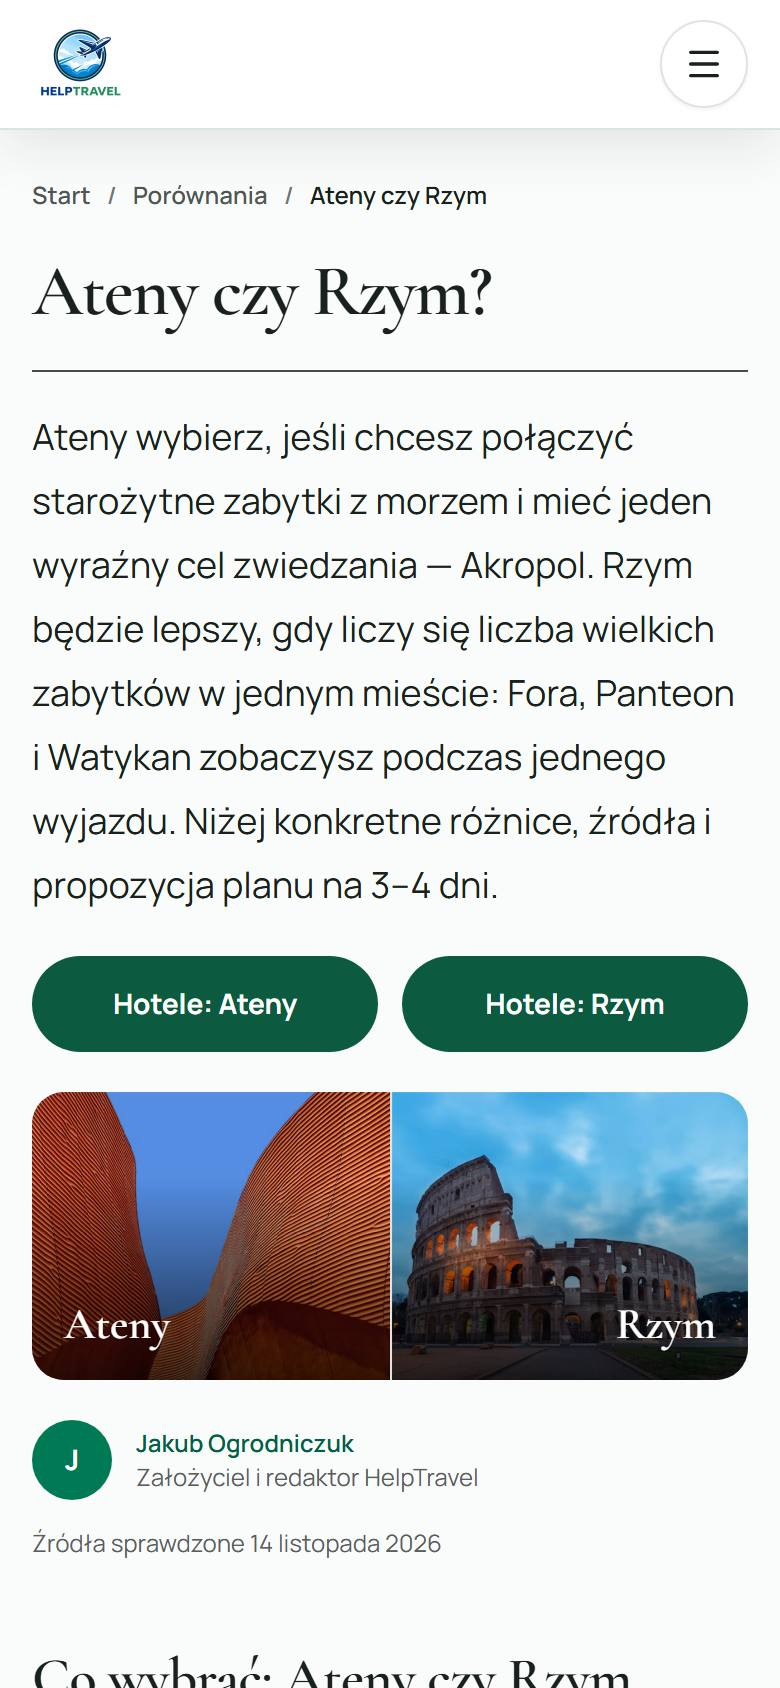
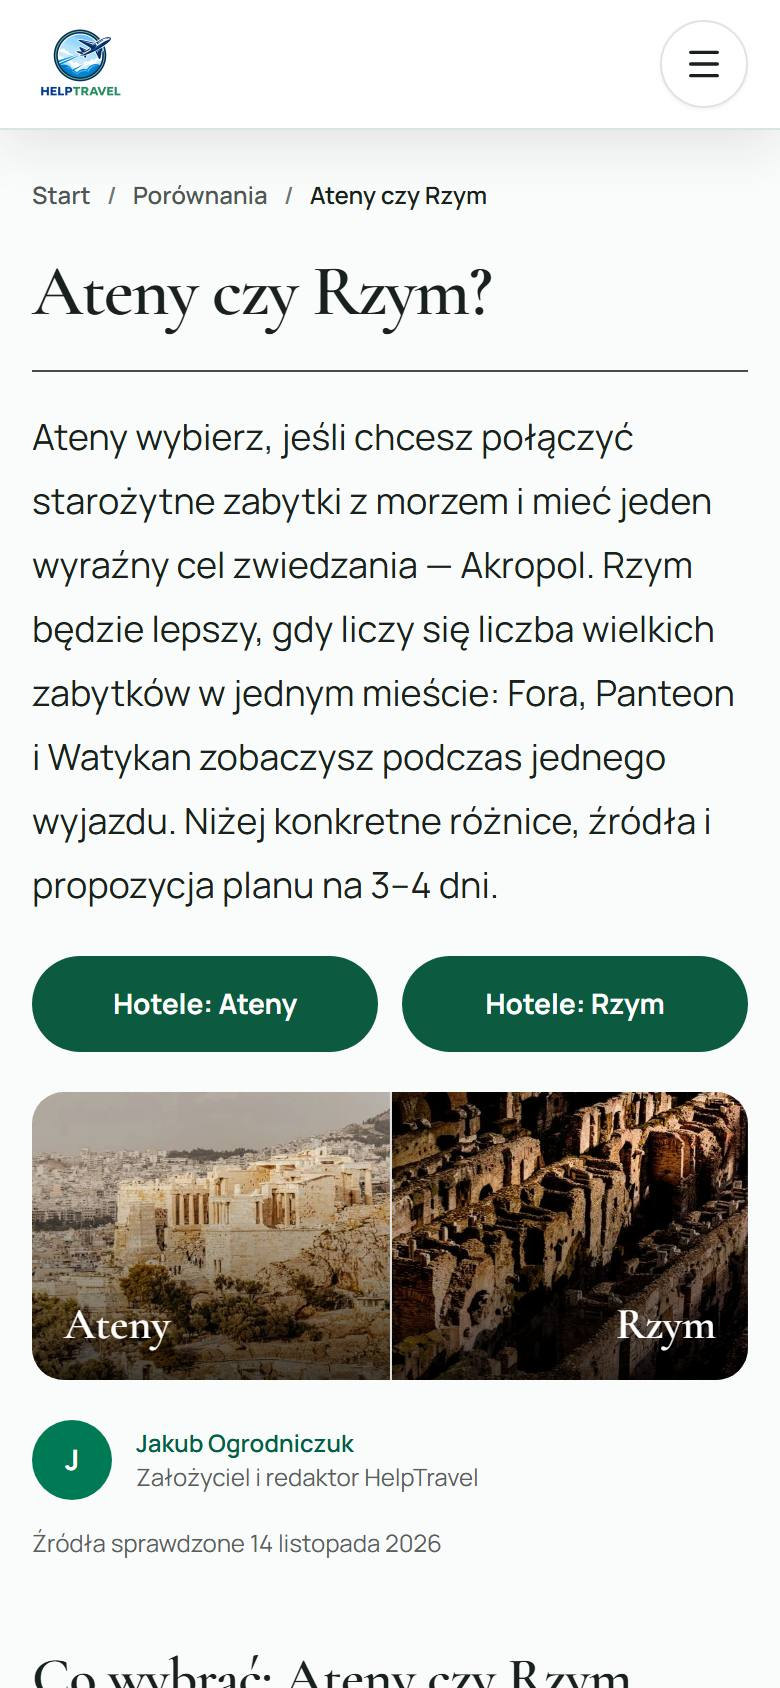
docs(seo): wyniki etapu 7, kontrola Preview i zrzuty „po” z prawdziwymi zdjęciami
- PHASE_7_RESULTS: testy, kontrola Preview (263/263), znalezisko z prefetchem
- zrzut porównania „po” podmieniony na wersję z Preview (zdjęcia Pexels)
- ryzyko R-07 zamknięte; pułapki Preview dopisane do HANDOFF

Changed region(s): [[0.0308, 0.6469, 0.9846, 0.8318]]

diff --git a/docs/seo/PHASE_7_RESULTS.md b/docs/seo/PHASE_7_RESULTS.md
@@ -1,0 +1,88 @@
+# Etap 7 — testy i przegląd kodu: wyniki
+
+## Testy
+
+| Rodzaj | Polecenie | Wynik |
+|---|---|---|
+| Jednostkowe i integracyjne całego projektu | `pnpm test` | 1672 zaliczone |
+| SEO, bramka treści, silnik, klient GSC | `pnpm test:seo` | 155 zaliczonych |
+| Kontrola dokumentów treści | `pnpm content:check` | 4/4, wszystkie `approved` |
+| Typy i linter | `pnpm exec tsc --noEmit`, `pnpm lint` | czyste |
+| Test dymny po buildzie lokalnym | `pnpm seo:smoke` | 263/263 |
+| Test dymny na Preview (Vercel) | `pnpm seo:smoke -- --base <preview> --share <token>` | 263/263 |
+| Playwright z axe | `pnpm exec playwright test e2e/seo-templates.spec.ts` | 13/13 |
+| Lighthouse (telefon, mediana z 3) | `pnpm lighthouse -- --routes=…` | dostępność 100, CLS 0, LCP bez regresji |
+| Crawl buildu | `pnpm seo:crawl` | 0 błędów JSON-LD, 0 złych linków, 0 zmian robots |
+| Kontrola treści w CI | workflow „SEO content check” na PR | zaliczona |
+
+Test dymny i Playwright zostały powtórzone na końcowym buildzie, już po zmianie linków CTA opisanej niżej. Lighthouse i crawl pochodzą z buildu commita `b4d9a22`. Późniejsze zmiany dotyczą skryptów, klienta GSC, workflow, dokumentów i jednego atrybutu linku, więc nie zmieniają treści stron.
+
+## Kontrola Preview
+
+Preview na Vercelu używa prawdziwych kluczy dostawców, więc pokazuje to, czego nie widać lokalnie.
+
+| Sprawdzenie | Wynik |
+|---|---|
+| Build | Pierwszy build padł po 20 s na pobieraniu fontów Google (`next/font`), poza kodem tej gałęzi. Ponowny build przeszedł. |
+| Test dymny | 263/263 |
+| Trzy szablony w 390, 768 i 1440 px | status 200, brak przepełnienia, 0 błędów konsoli, 0 żądań do API produktu przy wczytaniu |
+| Pozycja pierwszego CTA na telefonie | 478, 388 i 645 px, tak samo jak lokalnie |
+| Zdjęcia | prawdziwe zdjęcia miejsc z Pexels (Akropol, Rzym) |
+| Blok statystyk hoteli | obecny na porównaniu Ateny–Rzym, zgodnie z założeniem nieobecny na parach spoza czołówki |
+
+Zrzuty „po” w `docs/seo/screenshots/` pochodzą z tej kontroli.
+
+### Znalezisko: prefetch wyszukiwarki przy każdej odsłonie
+
+Kontrola sieci na Preview pokazała żądania RSC do `/hotele/szukaj?destination=…` wysyłane bez kliknięcia. Przyczyna: `next/link` pobiera wstępnie cel, gdy link wejdzie w pole widzenia, a nowe szablony przeniosły CTA do pierwszego ekranu. Na porównaniu dawało to 5 żądań na odsłonę, także od botów renderujących JavaScript.
+
+Pomiar na buildzie produkcyjnym:
+
+- Żądania **nie uruchamiały wyszukiwania u dostawcy**. Odpowiedź zawierała tylko drzewo trasy i metadane (około 4 kB), bez danych hoteli. Strona wyszukiwarki jest dynamiczna i jej komponent z zapytaniem do dostawcy nie był renderowany.
+- Były jednak zbędnym ruchem na trasie produktu i niczego nie przyspieszały.
+
+Poprawka: `SeoCtaLink` wyłącza prefetch dla tras transakcyjnych (`/hotele/szukaj`, `/hotele/rezerwacja`, `/loty`), a jawne ustawienie nadal wygrywa. Logika i testy: `src/lib/analytics/cta-prefetch.ts`.
+
+| Strona | Żądania do `/hotele/szukaj` bez kliknięcia: przed → po |
+|---|---|
+| Porównanie Ateny–Rzym | 5 → 0 |
+| Barcelona w styczniu | 3 → 0 |
+| Przewodnik Barcelona | 0 → 0 |
+| Hub city break | 2 → 2 |
+
+Dwa żądania na hubie pochodzą z ogólnego linku do wyszukiwarki bez kierunku, który istniał wcześniej i nie przechodzi przez `SeoCtaLink`. Karty kierunków poniżej pierwszego ekranu też używają zwykłych linków. To wspólne komponenty serwisu, więc zostały bez zmian.
+
+Kliknięcie CTA nadal prowadzi do wyszukiwarki z kierunkiem (Playwright 13/13).
+
+Przy okazji naprawiono `seo:smoke --share`: token `_vercel_share` w każdym żądaniu dawał 27 fałszywych przekierowań 307. Skrypt wymienia teraz token na ciasteczko jeden raz. `seo:shots` dostał tę samą opcję.
+
+## Przeglądy kodu
+
+| Przegląd | Zakres | Ustalenia | Stan |
+|---|---|---|---|
+| Niezależny przegląd gałęzi | całość do `009db8e` | 15 | wszystkie naprawione w `e930cb4` |
+| Wbudowany `/code-review` | `e930cb4..HEAD` | 9 | 6 naprawionych w `7b9636f`, 3 pominięte świadomie |
+| Krytyczny przegląd Codeksa | cała gałąź | patrz niżej | patrz niżej |
+
+Naprawione po `/code-review`:
+
+- Podpis JWT konta usługi używał czasu przebiegu zamiast bieżącego, więc powtórka starego dnia byłaby odrzucana.
+- Raport tygodniowy zakładał dni w kolejności chronologicznej i uznawał okno za niepełne przy jednym dniu bez danych.
+- Klient GSC pobierał pary strona × zapytanie, których nikt nie używał.
+- Skrypt inwentarza gubił ostatni wiersz pliku bez końcowej nowej linii i dawał nieczytelne błędy przy braku plików.
+
+Pominięte świadomie:
+
+- Awaria API Search Console następuje przed startem potoku, więc nie tworzy wpisu w rejestrze błędów. Przyczyna jest widoczna w logu zadania.
+- Limit czasu klienta GSC obejmuje oczekiwanie na odpowiedź, ale nie odczyt jej treści. Zadanie w CI ma własny limit 25 minut.
+- Skrypt inwentarza ma własny parser CSV zamiast wspólnego.
+
+## Krytyczny przegląd Codeksa
+
+Wynik nie był gotowy w chwili zapisu tego dokumentu. Ustalenia i decyzje trafią do opisu PR #154.
+
+## Czego testy nie pokrywają
+
+- Prawdziwego modelu i prawdziwego API Search Console.
+- Zachowania prawdziwych użytkowników i konwersji.
+- Wpływu na pozycje i CTR. To pokaże dopiero GSC po 28 dniach.

diff --git a/docs/seo/RISK_REGISTER.md b/docs/seo/RISK_REGISTER.md
@@ -12,7 +12,7 @@ Stan na 14.11.2026. Skala: prawdopodobieństwo i skutek jako niskie (N), średni
 | R-04 | Źródła blokują zapytania automatyczne (`spain.info`, `whc.unesco.org`), więc faktów nie da się odświeżyć bez człowieka. | W | N | Zabezpieczeń nie obchodzimy. Weryfikacja na migawkach z zapisanym skrótem SHA-256. Przy odświeżaniu człowiek zapisuje stronę ręcznie i uruchamia `content:verify --snapshots`. | Przyjęte |
 | R-05 | Cztery dokumenty treści mają status `approved` z dopiskiem „akceptacja przez merge PR”. Scalenie bez przeczytania oznacza publikację bez przeglądu. | Ś | Ś | Opisane w PR i w `OWNER_ACTIONS.md`. Usunięcie pliku dokumentu przywraca stronę bez wzbogacenia. | Otwarte |
 | R-06 | Przekierowania literówek (`/porównanie/…`, `/porunanie/…`) złapią niewłaściwy adres. | N | N | Wzorzec wyklucza poprawne `/porownanie`. Cel to istniejąca para albo hub porównań, nigdy strona główna. Testy jednostkowe i test dymny. | Zamknięte |
-| R-07 | Bloki zależne od dostawców (statystyki hoteli, zdjęcia Pexels) nie były widoczne w buildzie lokalnym. | Ś | N | Kontrola na Preview przed scaleniem. Bloki mają bramki danych i przy braku danych znikają. | Otwarte: do sprawdzenia na Preview |
+| R-07 | Bloki zależne od dostawców (statystyki hoteli, zdjęcia Pexels) nie były widoczne w buildzie lokalnym. | Ś | N | Sprawdzone na Preview 14.11.2026: zdjęcia Pexels i blok statystyk hoteli renderują się poprawnie, test dymny 263/263. Bloki mają bramki danych i przy braku danych znikają. | Zamknięte |
 | R-08 | Linki pomocnicze na telefonie są niższe niż 40 px (lista źródeł, nazwy miast w hubie). | Ś | N | Główne CTA mają 48 px. Zgodne z WCAG 2.2 AA przez wyjątki. Powiększenie zapisane jako następna iteracja. | Przyjęte |
 
 ## Ryzyka automatyzacji treści
@@ -25,7 +25,7 @@ Stan na 14.11.2026. Skala: prawdopodobieństwo i skutek jako niskie (N), średni
 | R-12 | Dane GSC trafią do publicznego repozytorium albo artefaktu. | Ś | Ś | Raport publiczny jest redagowany w kodzie (test). Gałąź stanu przechowuje tylko rejestr. Pełny raport nie opuszcza maszyny przebiegu. | Zamknięte dla automatu |
 | R-13 | `docs/seo/OPPORTUNITY_BACKLOG.csv` i `BASELINE.md` zawierają zagregowane liczby GSC (usługa, segmenty, 20 adresów). Nie ma w nich zapytań, ale repo jest publiczne. | W | N | Świadoma decyzja zgodna z wymaganiem misji. Właściciel może usunąć kolumny albo pliki przed scaleniem. | Otwarte: decyzja właściciela |
 | R-14 | Sekret trafi do logów albo do kroków instalacji. | N | W | `persist-credentials: false`. Sekrety są przekazywane tylko do kroku silnika i kroków wypychania. Klucz czytany wyłącznie ze zmiennej środowiskowej. | Zamknięte |
-| R-15 | Robot treści albo crawler wywoła wyszukiwarkę, rezerwację lub API dostawcy. | N | W | Twarda blokada hostów dostawców i tras zakupowych w `sources.ts`. Crawler pomija trasy dostawców. Test e2e przechwytuje `/hotele/szukaj`. | Zamknięte |
+| R-15 | Robot treści albo crawler wywoła wyszukiwarkę, rezerwację lub API dostawcy. | N | W | Twarda blokada hostów dostawców i tras zakupowych w `sources.ts`. Crawler pomija trasy dostawców. Test e2e przechwytuje `/hotele/szukaj`. Linki CTA nie pobierają wstępnie tras transakcyjnych. | Zamknięte |
 | R-16 | Nazwy modeli albo ceny API się zmienią. | Ś | N | Jedno miejsce konfiguracji (`models.ts`). Błąd modelu kończy przebieg bez publikacji i trafia do rejestru błędów. | Przyjęte |
 | R-17 | Klient API Search Console nie był uruchomiony na prawdziwym koncie. | Ś | N | Testy na podstawionych odpowiedziach. Pierwsze uruchomienie w trybie próbnym. Import CSV zostaje jako ścieżka zapasowa. | Otwarte do pierwszego uruchomienia |
 

diff --git a/docs/seo/DESIGN_QUALITY_STANDARD.md b/docs/seo/DESIGN_QUALITY_STANDARD.md
@@ -68,7 +68,7 @@ Każdy próg ma test. Zmiana szablonu, która któregoś nie spełnia, nie jest 
 | 5 | axe: 0 naruszeń na trzech szablonach w trzech szerokościach | e2e (`@axe-core/playwright`) |
 | 6 | Fokus z klawiatury jest widoczny i trafia w CTA | e2e |
 | 7 | Kliknięcie CTA prowadzi do wyszukiwarki z kierunkiem i wysyła `seo_cta_click` | e2e z przechwyconym `/hotele/szukaj` |
-| 8 | Przy wczytaniu strony treści nie ma żądań do wyszukiwarki, rezerwacji i lotów | raport `seo:shots` (`forbiddenRequestsOnLoad`) |
+| 8 | Przy wczytaniu strony treści nie ma żądań do API wyszukiwarki, rezerwacji i lotów, a linki CTA nie pobierają wstępnie tras transakcyjnych | raport `seo:shots` (`forbiddenRequestsOnLoad`), test `cta-prefetch.test.ts` |
 | 9 | Lighthouse (telefon): dostępność 100, CLS 0, LCP bez regresji względem `main` | `pnpm lighthouse -- --routes=…`, mediana z 3 przebiegów |
 | 10 | Tabela na telefonie jest układem blokowym z zachowanymi rolami ARIA | e2e i axe |
 | 11 | Zdjęcia są prawdziwymi zdjęciami miejsca z podpisem autora, mają `alt` i poprawne `sizes` | przegląd kodu, bramka treści (alt) |
@@ -101,7 +101,7 @@ W Git Bash ścieżki zaczynające się od `/` są zamieniane na ścieżki Window
 
 ## 5. Znane ograniczenia
 
-- **Zdjęcia na lokalnych zrzutach „po”.** Build lokalny nie ma klucza Pexels, więc pokazuje zdjęcia zastępcze z puli w repo (na zrzucie Aten jest przypadkowa architektura). Na Preview i produkcji klucz jest ustawiony i strona pokazuje zdjęcia miejsca, co widać na zrzutach laboratoryjnych zrobionych z kluczem.
+- **Zdjęcia w buildzie lokalnym.** Build lokalny nie ma klucza Pexels, więc pokazuje zdjęcia zastępcze z puli w repo. Dlatego zrzuty „po” w repozytorium pochodzą z Preview na Vercelu (14.11.2026), gdzie widać prawdziwe zdjęcia miejsc i blok statystyk hoteli.
 - **Baner cookies przy pierwszej wizycie** zakrywa dolną część pierwszego ekranu, w tym parę CTA (478 px od góry). Odpowiedź pod H1 jest widoczna nad banerem. Baner jest elementem zgody i nie był zmieniany.
 - **Linki pomocnicze niższe niż 40 px.** Okruszki, podpis autora, linki w zdaniach, lista źródeł i nazwy miast w tabeli huba mają 17–24 px wysokości: 9 na porównaniu (przed: 4), 7 na przewodniku miesięcznym (przed: 18), 7 na hubie (przed: 3). Spełniają WCAG 2.2 AA dzięki wyjątkom dla linków w tekście i dla odstępów, ale to nie są wygodne cele dla kciuka. Główne CTA mają 48 px. Powiększenie listy źródeł to mała zmiana do kolejnej iteracji.
 - **Brak testów z użytkownikami i danych o konwersji.** Wybór kierunku jest decyzją projektową popartą pomiarami układu.

diff --git a/docs/seo/HANDOFF.md b/docs/seo/HANDOFF.md
@@ -34,7 +34,7 @@ pnpm seo:smoke -- --base http://localhost:3000
 pnpm exec playwright test e2e/seo-templates.spec.ts
 ```
 
-Oczekiwane: testy 1668 + 155, test dymny 263/263, Playwright 13/13.
+Oczekiwane: testy 1672 + 155, test dymny 263/263, Playwright 13/13.
 
 ## Pułapki, które już kosztowały czas
 
@@ -47,6 +47,9 @@ Oczekiwane: testy 1668 + 155, test dymny 263/263, Playwright 13/13.
 - **Codex potrafi zostawić bajty NUL w wyrażeniach regularnych** i ma dzienny limit konta. Jego wynik zawsze trzeba przeczytać.
 - **Przebieg `content:run` importuje moduł z `main()` na końcu.** Nie da się go zaimportować w teście bez uruchomienia.
 - **Preview na Vercelu używa zmiennych produkcyjnych.** Na Preview tylko odczyt stron treści, żadnych testów rezerwacji.
+- **Token `_vercel_share` trzeba wymienić na ciasteczko.** Żądanie z tokenem w adresie zwraca 307, więc test z tokenem w każdym żądaniu sprawdza przekierowanie Vercela, a nie stronę. `seo:smoke` i `seo:shots` robią tę wymianę same (`--share <token>`). Token traci ważność po każdym wdrożeniu.
+- **CTA w pierwszym ekranie uruchamia prefetch `next/link`.** Dla tras transakcyjnych jest wyłączony w `src/lib/analytics/cta-prefetch.ts`. Nowy link do wyszukiwarki poza `SeoCtaLink` trzeba sprawdzić skryptem z `seo-private/tooling/prefetch-probe.mjs` albo w zakładce sieci.
+- **Build Preview potrafi paść na pobieraniu fontów Google** po kilkunastu sekundach. Ponowny build przechodzi.
 
 ## Dane prywatne
 

diff --git a/docs/seo/RESULTS.md b/docs/seo/RESULTS.md
@@ -15,6 +15,7 @@ Stan na 14.11.2026. PR: [SneakersInfo1/HELPTRAVEL-AGENCY#154](https://github.com
 | Raport tygodniowy z GSC (28 i 56 dni) | działa na eksporcie CSV | `pnpm seo:weekly` |
 | Kontekst treści w zdarzeniu `seo_cta_click` | gotowe | test kontraktu zdarzeń |
 | Dwa skille jakości i audyt narzędzi | gotowe | `TOOLING_AUDIT.md` |
+| Preview na Vercelu | sprawdzone 14.11.2026 | test dymny 263/263, prawdziwe zdjęcia i blok statystyk hoteli, 0 błędów konsoli w trzech szerokościach |
 
 Liczby przed i po (produkcja z 13.11 kontra build gałęzi):
 
@@ -28,7 +29,7 @@ Liczby przed i po (produkcja z 13.11 kontra build gałęzi):
 | LCP i CLS | — | bez regresji, CLS 0 |
 | Zmiany indeksu (robots) | — | 0 |
 
-Testy: `pnpm test` 1668 + 155 zaliczonych, `tsc` i `eslint` czyste.
+Testy: `pnpm test` 1672 + 155 zaliczonych, `tsc` i `eslint` czyste.
 
 ## Co wymaga klucza albo Twojej zgody
 
@@ -55,7 +56,7 @@ Dokładne kroki: `OWNER_ACTIONS.md`.
 
 ## Co zostało opublikowane
 
-Nic. Na produkcji nie zmieniono żadnej strony ani ustawienia. Powstały: gałąź `claude/helptravel-seo-modernizacja-6f1b7c`, szkic PR i wdrożenie Preview na Vercelu. Automat nie utworzył żadnego PR.
+Nic. Na produkcji nie zmieniono żadnej strony ani ustawienia. Powstały: gałąź `claude/helptravel-seo-modernizacja-6f1b7c`, szkic PR i wdrożenia Preview na Vercelu (z linkiem udostępniania ważnym 23 godziny, utworzonym do testów). Automat nie utworzył żadnego PR.
 
 ## Koszty
 

diff --git a/docs/seo/BASELINE.md b/docs/seo/BASELINE.md
@@ -148,4 +148,4 @@ Jak to czytać:
 
 - GSC pokazuje stan sprzed zmian. Efekt będzie widać najwcześniej po 28 dniach od wdrożenia, a i wtedy będzie to korelacja: sezon, ruch z TikToka i wygląd wyników też się zmieniają.
 - GA4 nie jest podłączone, więc nie ma punktu odniesienia dla kliknięć CTA ani rezerwacji z ruchu organicznego.
-- Build lokalny nie ma kluczy dostawców (LiteAPI, Pexels). Bloki zależne od nich, czyli statystyki hoteli i zdjęcia, trzeba sprawdzić na Preview.
+- Build lokalny nie ma kluczy dostawców (LiteAPI, Pexels). Bloki zależne od nich, czyli statystyki hoteli i zdjęcia, sprawdzono osobno na Preview (`PHASE_7_RESULTS.md`).

diff --git a/docs/seo/PHASE_3_RESULTS.md b/docs/seo/PHASE_3_RESULTS.md
@@ -33,5 +33,5 @@ Trzy kierunki art direction („Werdykt”, „Pojedynek”, „Karta decyzji”
 ## Ograniczenia
 
 - Wybór kierunku opiera się na zrzutach i pomiarach układu. Nie było testów z użytkownikami.
-- Zdjęcia i statystyki hoteli na żywo trzeba obejrzeć na Preview, bo build lokalny nie ma kluczy dostawców.
+- Build lokalny nie ma kluczy dostawców, więc zdjęcia i statystyki hoteli na żywo sprawdzono na Preview (`PHASE_7_RESULTS.md`).
 - Wzbogacenie treścią ze źródeł mają dziś 4 z 54 porównań. Pozostałe korzystają z nowego szablonu z danymi bazowymi.
